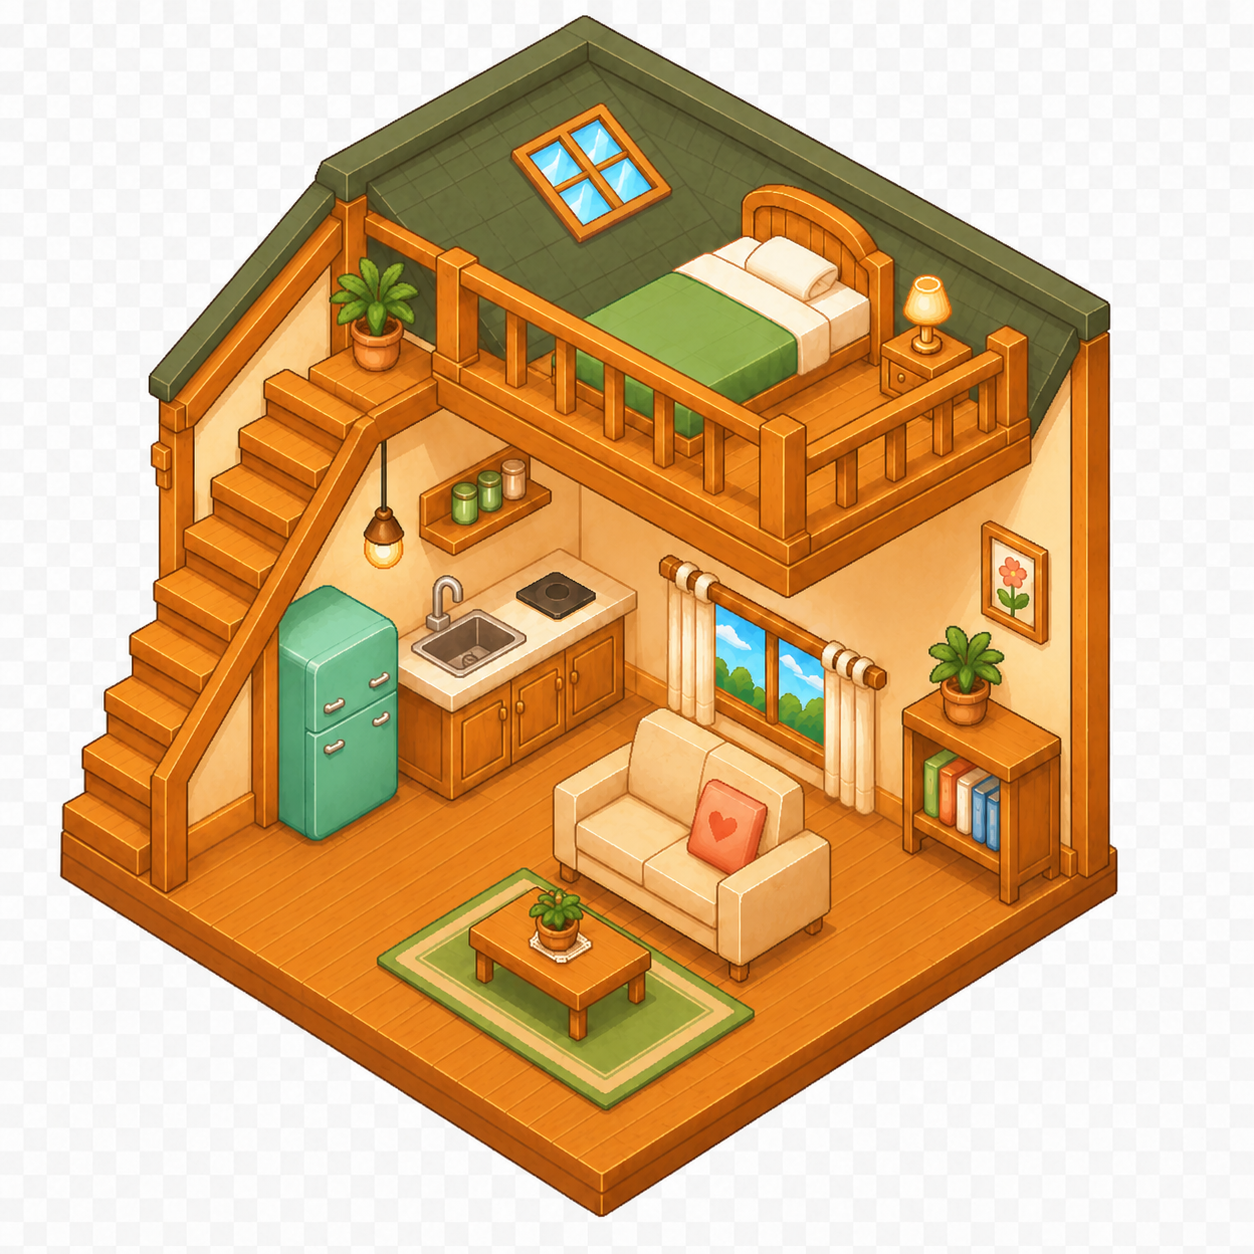
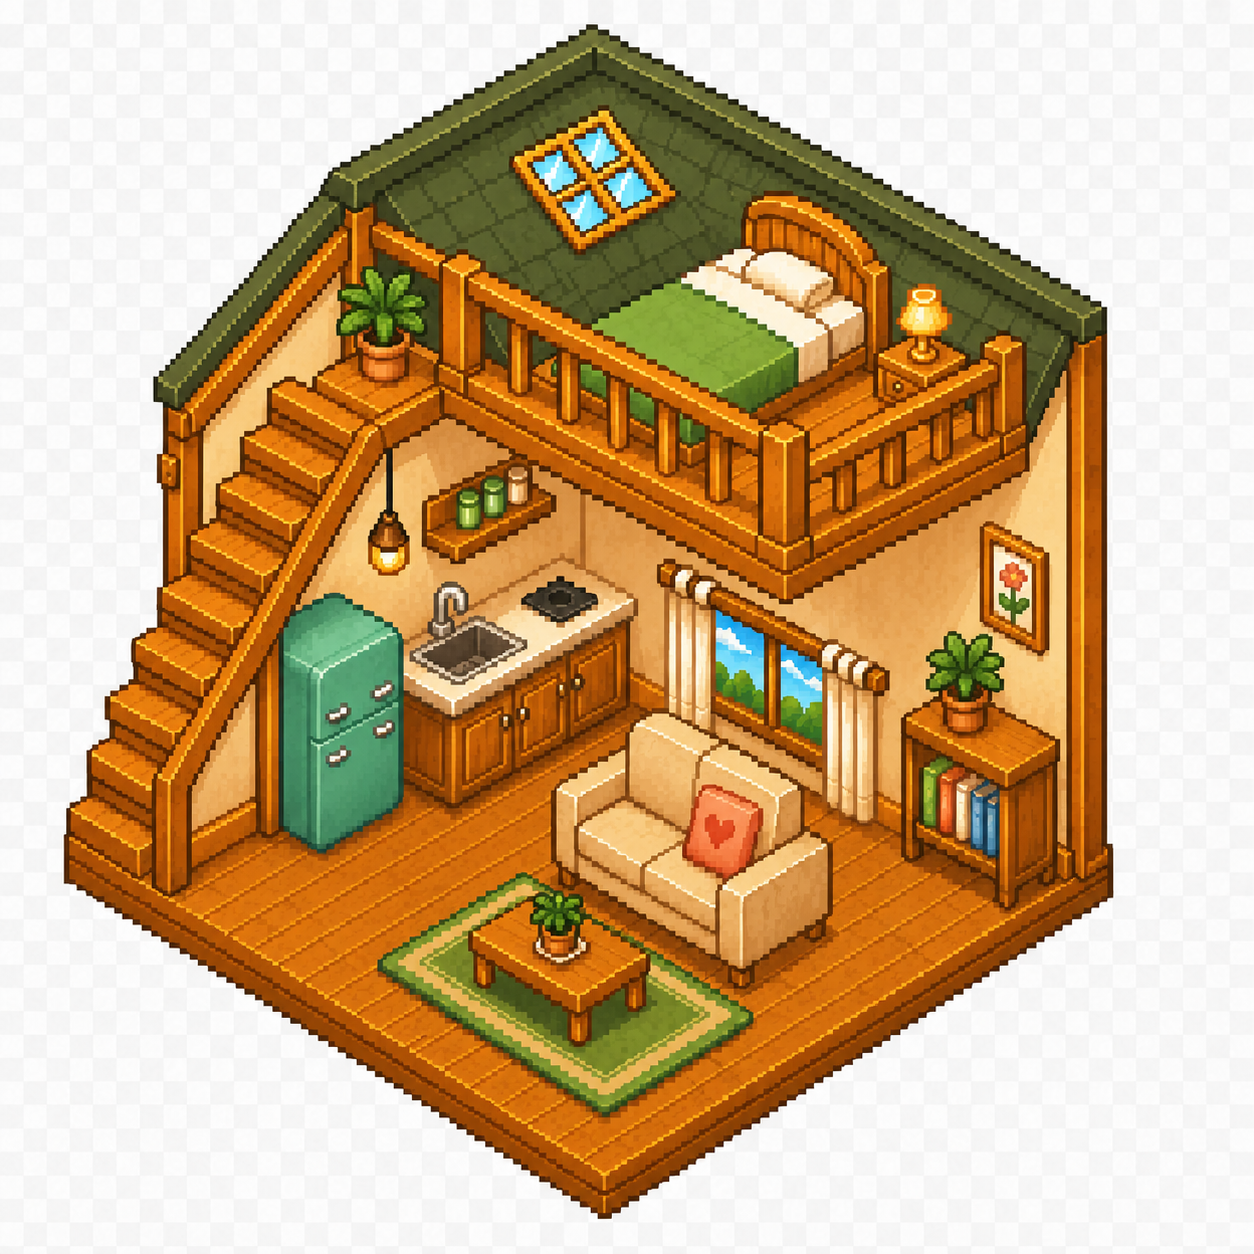
ai_room_context 보강

Changed region(s): [[0.0311, 0.0, 0.9019, 0.9952]]

diff --git a/apps/desktop/src/features/overlay/HouseOverlay.tsx b/apps/desktop/src/features/overlay/HouseOverlay.tsx
@@ -20,7 +20,13 @@ import {
   setHouseOverlayLocked
 } from "./overlayApi";
 
-const houseUrl = new URL("../../assets/mouse-house-transparent.png", import.meta.url).href;
+const houseUrls = [
+  new URL("../../../../../packages/character-assets/house/mouse_house1.png", import.meta.url).href,
+  new URL("../../../../../packages/character-assets/house/mouse_house2.png", import.meta.url).href,
+  new URL("../../../../../packages/character-assets/house/mouse_house3.png", import.meta.url).href,
+  new URL("../../../../../packages/character-assets/house/mouse_house4.png", import.meta.url).href,
+  new URL("../../../../../packages/character-assets/house/mouse_house5.png", import.meta.url).href
+] as const;
 const messLayerUrls = {
   floor: new URL(
     "../../../../../packages/character-assets/mess/mess_floor_dirt_transparent.png",
@@ -254,6 +260,7 @@ export function HouseOverlay() {
   }
 
   const messLevel = messLevelForCleanliness(cleanlinessScore);
+  const houseImage = houseUrlForRoot(roots, selectedRootId);
 
   return (
     <div className={`house-overlay ${locked ? "is-locked" : ""} ${dropTarget ? "is-drop-target" : ""}`}>
@@ -270,7 +277,13 @@ export function HouseOverlay() {
         title={locked ? "Click to open menu / double-click to unlock" : "Drag to move / double-click to lock"}
       >
         <HouseAmbientMessLayers level={messLevel} />
-        <img className="house-overlay-image" src={houseUrl} alt="" draggable={false} />
+        <img
+          key={houseImage}
+          className="house-overlay-image"
+          src={houseImage}
+          alt=""
+          draggable={false}
+        />
         <HouseMessProps level={messLevel} />
       </button>
 
@@ -360,6 +373,22 @@ function selectStableRoot(roots: ManagedRoot[], currentRootId: string | null) {
     roots[0] ??
     null
   );
+}
+
+function houseUrlForRoot(roots: ManagedRoot[], rootId: string) {
+  const index = rootOrderIndex(roots, rootId);
+  return houseUrls[index % houseUrls.length];
+}
+
+function rootOrderIndex(roots: ManagedRoot[], rootId: string) {
+  if (!rootId) return 0;
+  const ordered = [...roots].sort((left, right) => {
+    const registered = left.registered_unix_ms - right.registered_unix_ms;
+    if (registered !== 0) return registered;
+    return left.root_id.localeCompare(right.root_id);
+  });
+  const index = ordered.findIndex((root) => root.root_id === rootId);
+  return index < 0 ? 0 : index;
 }
 
 function renderManagerSection(

diff --git a/apps/desktop/src/styles.css b/apps/desktop/src/styles.css
@@ -1326,10 +1326,24 @@ body.house-overlay-body .house-overlay-image {
   width: 100%;
   height: 100%;
   object-fit: contain;
-  opacity: 1 !important;
-  transition: filter 180ms ease, opacity 180ms ease;
+  object-position: center bottom;
+  opacity: 1;
+  animation: house-image-enter 180ms ease-out both;
+  transition: filter 180ms ease, opacity 180ms ease, transform 180ms ease;
   user-select: none;
   -webkit-user-drag: none;
+}
+
+@keyframes house-image-enter {
+  from {
+    opacity: 0;
+    transform: translateY(4px) scale(0.992);
+  }
+
+  to {
+    opacity: 1;
+    transform: translateY(0) scale(1);
+  }
 }
 
 body.house-overlay-body .house-mess-layers {